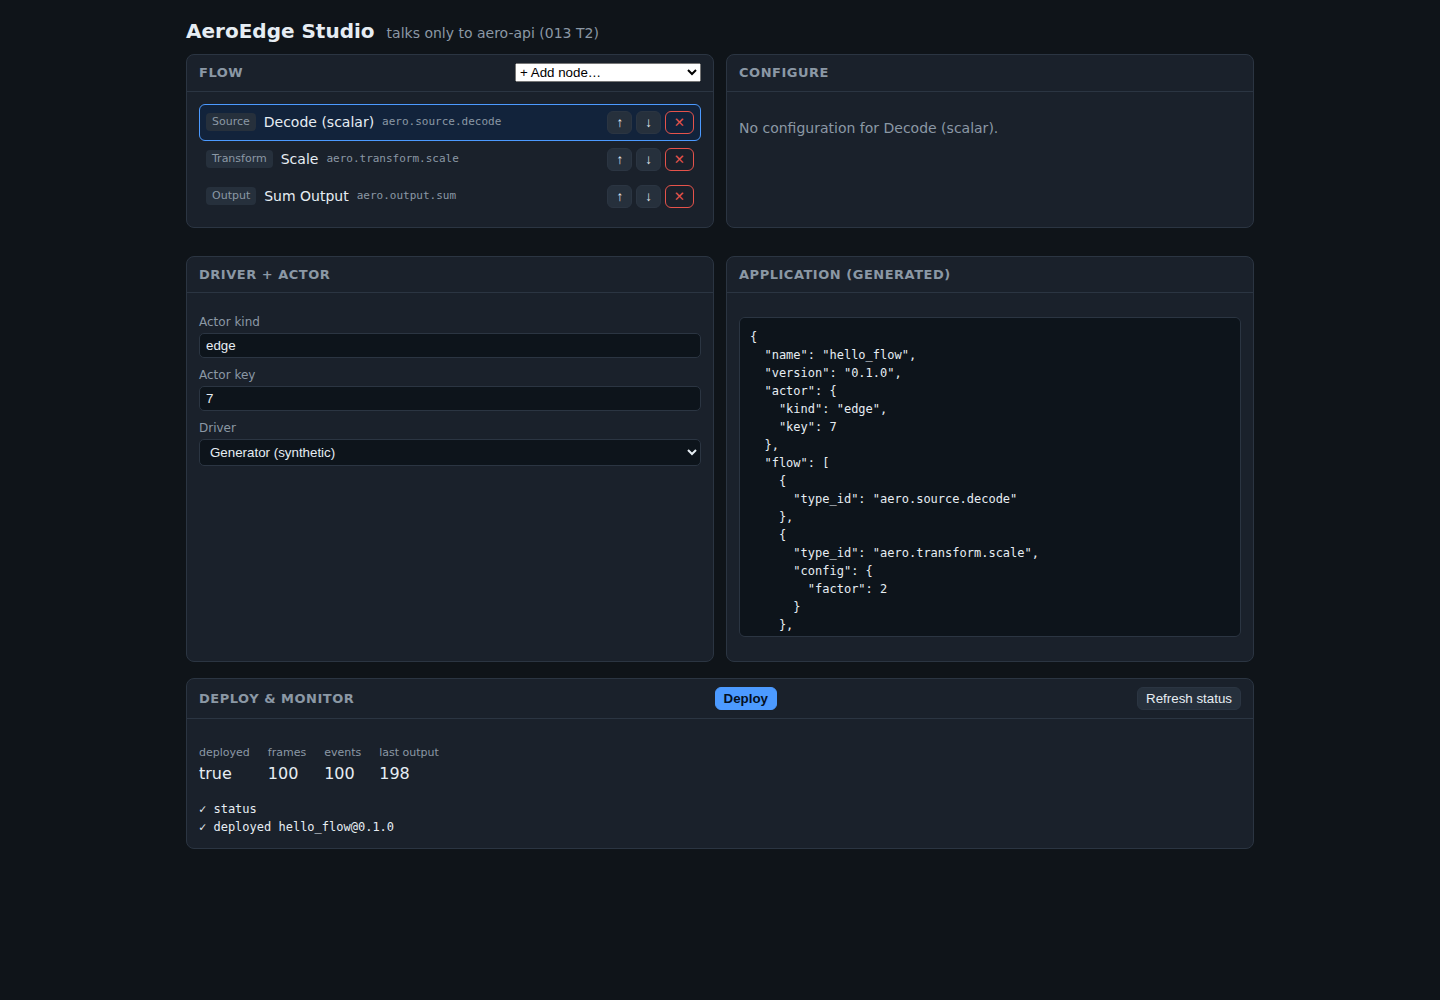
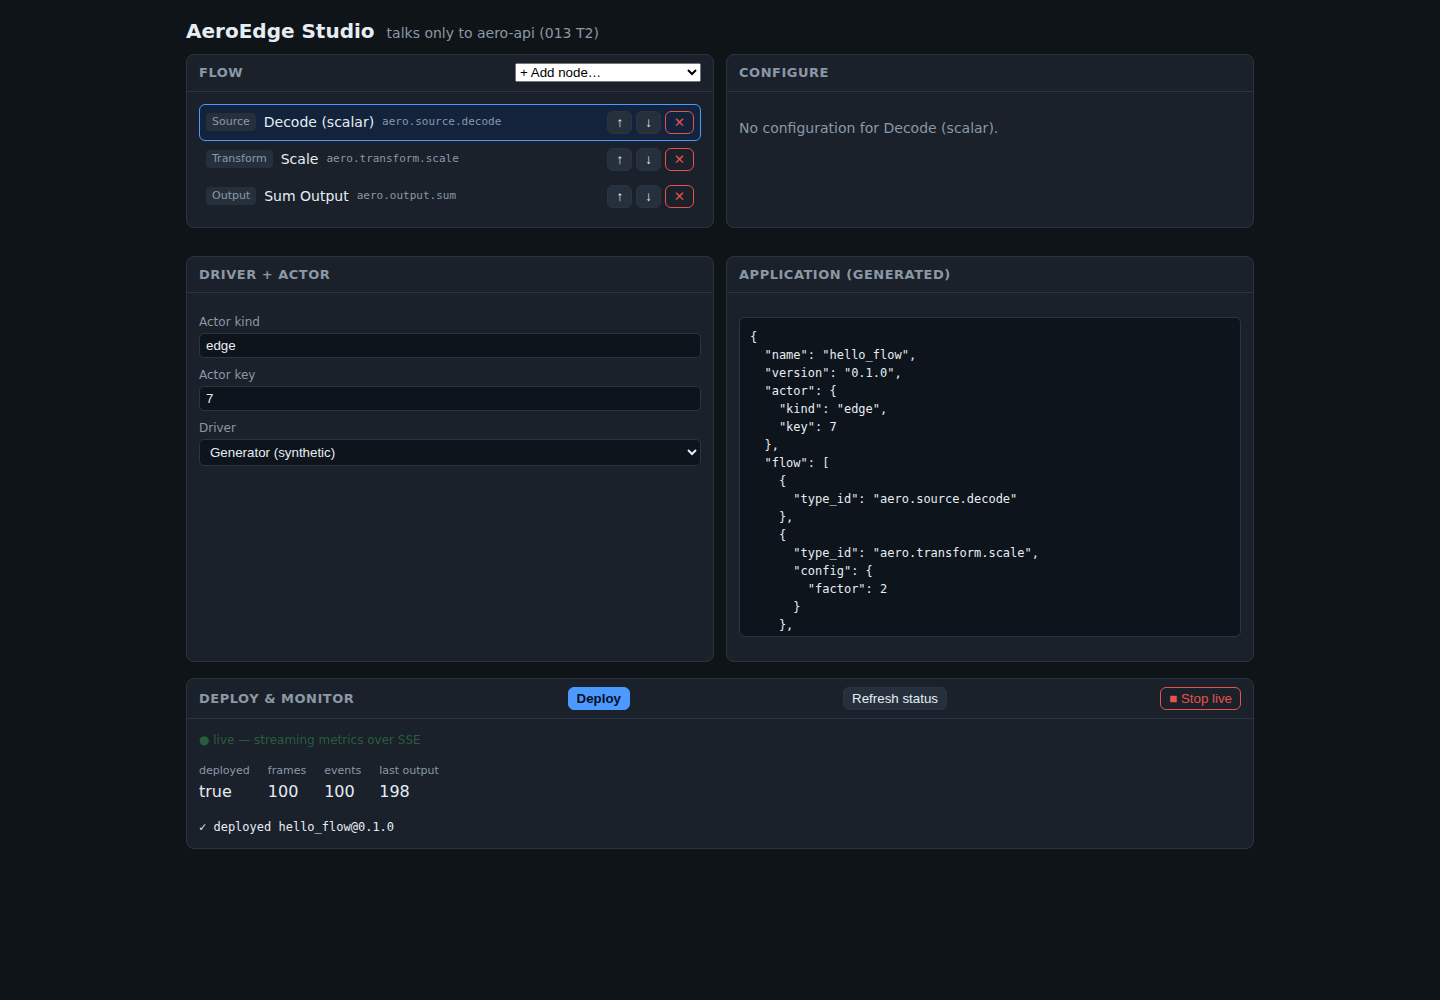
feat(studio): wire SSE metrics stream into the Deploy & Monitor panel
Add a Go-live toggle that subscribes to aero-api's GET /metrics/stream (SSE)
and updates the monitor panel in place — no manual Refresh. useEffect owns the
subscription lifecycle (tears down on Stop live / unmount); a pulsing '● live'
badge shows it streaming. Vitest: 2 new EventSource-mock tests (stream opens
the right URL + unsubscribes; each SSE frame parses to a snapshot, malformed
frames ignored).

Verified end-to-end through the Vite /api proxy: enable live + deploy ->
the panel reaches frames=100 purely from the stream (no fetch). Refreshed the
README screenshot to show live SSE monitoring.

Verified: vitest 14/14; npm run build clean.

diff --git a/studio/src/__tests__/api.test.ts b/studio/src/__tests__/api.test.ts
@@ -76,4 +76,49 @@ describe("AeroApi request building", () => {
     expect(r.available).toBe(false);
     expect(r.notice).toMatch(/runtime \+ device/i);
   });
+
+  it("subscribeMetrics opens the SSE stream and unsubscribes cleanly", () => {
+    let opened = "";
+    let closed = false;
+    class MockES {
+      onmessage: ((e: { data: string }) => void) | null = null;
+      constructor(url: string) { opened = url; }
+      close() { closed = true; }
+    }
+    const g = globalThis as unknown as { EventSource: unknown };
+    const saved = g.EventSource;
+    g.EventSource = MockES as unknown;
+    try {
+      const unsub = new AeroApi("/api").subscribeMetrics(() => {});
+      expect(opened).toBe("/api/metrics/stream");
+      unsub();
+      expect(closed).toBe(true);
+    } finally {
+      g.EventSource = saved;
+    }
+  });
+
+  it("subscribeMetrics parses each SSE frame into a snapshot", () => {
+    // A MockES that exposes the created instance so we can fire messages at it.
+    let inst: { onmessage: ((e: { data: string }) => void) | null; close: () => void } | null = null;
+    class MockES {
+      onmessage: ((e: { data: string }) => void) | null = null;
+      constructor(public url: string) { inst = this; }
+      close() {}
+    }
+    const g = globalThis as unknown as { EventSource: unknown };
+    const saved = g.EventSource;
+    g.EventSource = MockES as unknown;
+    try {
+      const api = new AeroApi("/api");
+      const seen: Array<number | undefined> = [];
+      api.subscribeMetrics((s) => seen.push(s.frames_processed));
+      inst!.onmessage!({ data: JSON.stringify({ deployed: true, frames_processed: 50 }) });
+      inst!.onmessage!({ data: JSON.stringify({ deployed: true, frames_processed: 100 }) });
+      inst!.onmessage!({ data: "not-json" }); // malformed frame ignored, no throw
+      expect(seen).toEqual([50, 100]);
+    } finally {
+      g.EventSource = saved;
+    }
+  });
 });

diff --git a/studio/src/App.tsx b/studio/src/App.tsx
@@ -1,6 +1,6 @@
 // The Studio shell (013 §5): compose the Flow Designer with a deploy/monitor panel driven by the
 // aero-api client. Starts from the hello_flow example so it's usable immediately.
-import { useMemo, useState } from "react";
+import { useEffect, useMemo, useState } from "react";
 import { FlowDesigner } from "./FlowDesigner";
 import { Panel, Button } from "./components";
 import { AeroApi, type StatusSnapshot } from "./api";
@@ -24,11 +24,20 @@ export function App() {
   const [model, setModel] = useState<FlowModel>(() => fromApplication(HELLO));
   const [log, setLog] = useState<string[]>([]);
   const [status, setStatus] = useState<StatusSnapshot | null>(null);
+  const [live, setLive] = useState(false);
 
   const app = toApplication(model);
   const errors = validateApplication(app, sourceIds(), outputIds());
 
   const say = (m: string) => setLog((l) => [m, ...l].slice(0, 20));
+
+  // Live monitoring: subscribe to the aero-api SSE metrics stream (013 §5). Each snapshot updates the
+  // panel in place. The subscription is torn down when Live turns off or the component unmounts.
+  useEffect(() => {
+    if (!live) return;
+    const unsubscribe = api.subscribeMetrics((s) => setStatus(s));
+    return unsubscribe;
+  }, [live, api]);
 
   const deploy = async () => {
     if (errors.length) { say(`✗ invalid: ${errors.join("; ")}`); return; }
@@ -52,7 +61,10 @@ export function App() {
 
       <Panel title="Deploy & Monitor"
         actions={<><Button variant="primary" onClick={deploy} disabled={errors.length > 0}>Deploy</Button>
-                   <Button onClick={refresh}>Refresh status</Button></>}>
+                   <Button onClick={refresh}>Refresh status</Button>
+                   <Button variant={live ? "danger" : "default"} onClick={() => setLive((v) => !v)}>
+                     {live ? "■ Stop live" : "● Go live"}</Button></>}>
+        {live && <p className="live-badge">● live — streaming metrics over SSE</p>}
         {errors.length > 0 && <p className="field-error">{errors.join("; ")}</p>}
         {status && (
           <dl className="status">

diff --git a/studio/src/styles.css b/studio/src/styles.css
@@ -32,3 +32,6 @@ body { margin: 0; background: var(--bg); color: var(--fg); font: 14px/1.5 system
 .status dt { font-size: 11px; color: var(--muted); }
 .status dd { margin: 0; font-size: 16px; }
 .log { list-style: none; margin: 8px 0 0; padding: 0; font-family: monospace; font-size: 12px; }
+.live-badge { color: #3fb950; font-size: 12px; margin: 0 0 8px; }
+@keyframes pulse { 0%,100% { opacity: 1; } 50% { opacity: .4; } }
+.live-badge { animation: pulse 1.4s ease-in-out infinite; }

diff --git a/studio/README.md b/studio/README.md
@@ -9,7 +9,8 @@ it never touches a device directly.
 
 *The Studio running against a live `aero-runtime` daemon: the `hello_flow` pipeline
 (Decode → Scale → Sum) in the Flow Designer, the generated Application JSON, and the Deploy &
-Monitor panel reading back `deployed: true · frames: 100 · events: 100 · last output: 198`.*
+Monitor panel **streaming metrics live over SSE** (`● live`) — `deployed: true · frames: 100 ·
+events: 100 · last output: 198`.*
 
 ## Run
 